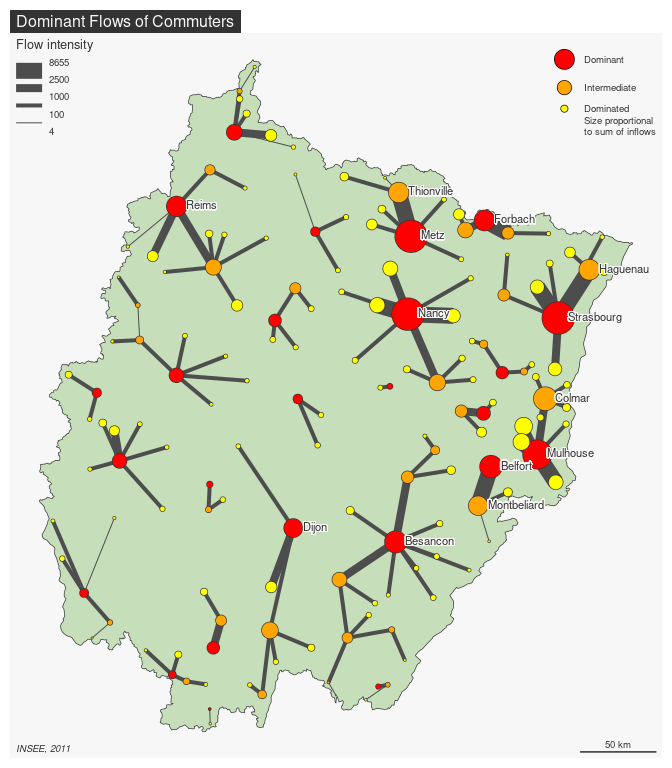
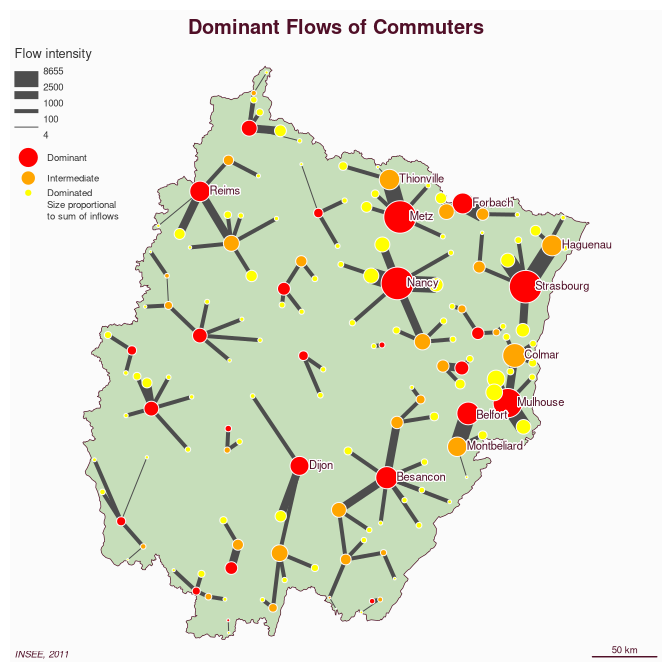
ci: remove GH CI

diff --git a/README.md b/README.md
@@ -3,8 +3,8 @@
 
 <!-- badges: start -->
 
-[![Version](http://www.r-pkg.org/badges/version/flows)](https://cran.r-project.org/package=flows/)
-[![R-CMD-check](https://github.com/riatelab/flows/actions/workflows/R-CMD-check.yaml/badge.svg)](https://github.com/riatelab/flows/actions/workflows/R-CMD-check.yaml)
+[![flows status
+badge](https://riatelab.r-universe.dev/flows/badges/version)](https://riatelab.r-universe.dev/flows)
 <!-- badges: end -->
 
 The analysis and representation of flows often presuppose a selection to
@@ -21,10 +21,10 @@ visualizations in the form of maps and graphs.
 
 ## Installation
 
-You can install the development version of flows from GitHub with:
+You can install the development version of flows from r-universe with:
 
 ``` r
-remotes::install_github("riatelab/flows")
+install.packages('flows', repos = c('https://riatelab.r-universe.dev', 'https://cloud.r-project.org'))
 ```
 
 ## Usage
@@ -40,20 +40,26 @@ nav <- read.csv(system.file("csv/nav.csv", package = "flows"))
 # Trnasform to wide
 mat <- prepare_mat(x = nav, i = "i", j = "j", fij = "fij")
 # import spatial objects
-UA <- st_read(system.file("gpkg/GE.gpkg", package = "flows"), 
-              layer = "urban_area", quiet = TRUE)
-GE <- st_read(system.file("gpkg/GE.gpkg", package = "flows"), 
-              layer = "region", quiet = TRUE)
+UA <- st_read(system.file("gpkg/GE.gpkg", package = "flows"),
+  layer = "urban_area", quiet = TRUE
+)
+GE <- st_read(system.file("gpkg/GE.gpkg", package = "flows"),
+  layer = "region", quiet = TRUE
+)
 # Map
 mf_map(GE, col = "#c6deba")
-out <- map_nodal_flows(mat = mat, x = UA,
-                       inches = .17,
-                       col_node = c('red', 'orange', 'yellow'),
-                       col_flow = "grey30",
-                       breaks = c(4,100,1000,2500,8655),
-                       lwd = c(1,4,8,16), add = TRUE)
-mf_label(out$nodes[out$nodes$w>6000,], var = 'name',
-         halo = TRUE, overlap = FALSE, pos = 4)
+out <- map_nodal_flows(
+  mat = mat, x = UA,
+  inches = .17,
+  col_node = c("red", "orange", "yellow"),
+  col_flow = "grey30",
+  breaks = c(4, 100, 1000, 2500, 8655),
+  lwd = c(1, 4, 8, 16), add = TRUE
+)
+mf_label(out$nodes[out$nodes$w > 6000, ],
+  var = "name",
+  halo = TRUE, overlap = FALSE, pos = 4
+)
 mf_title("Dominant Flows of Commuters")
 mf_credits("INSEE, 2011")
 mf_scale(50)
